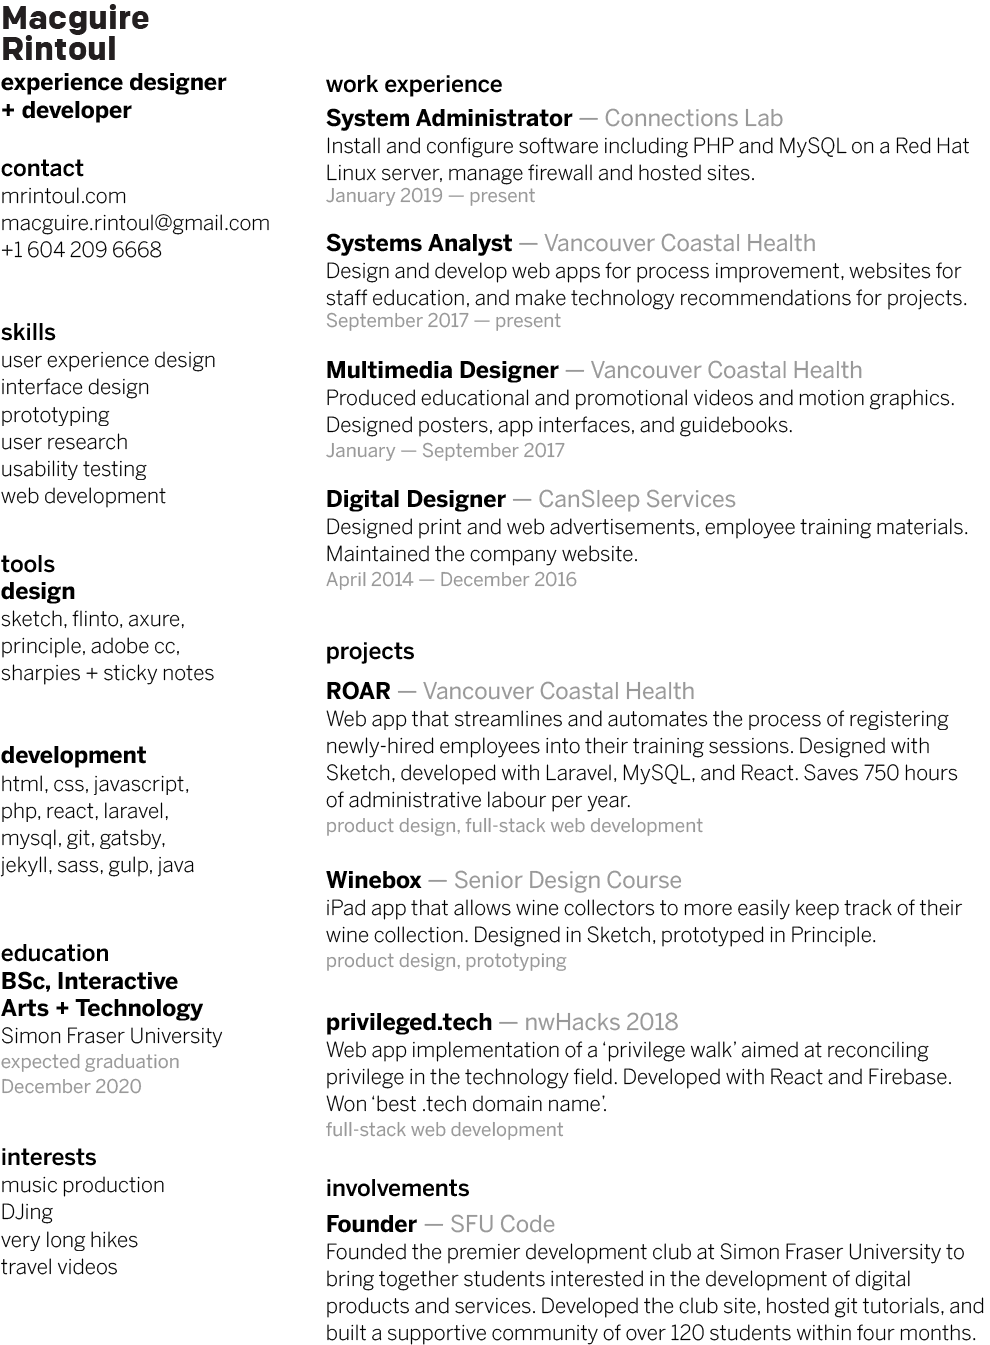
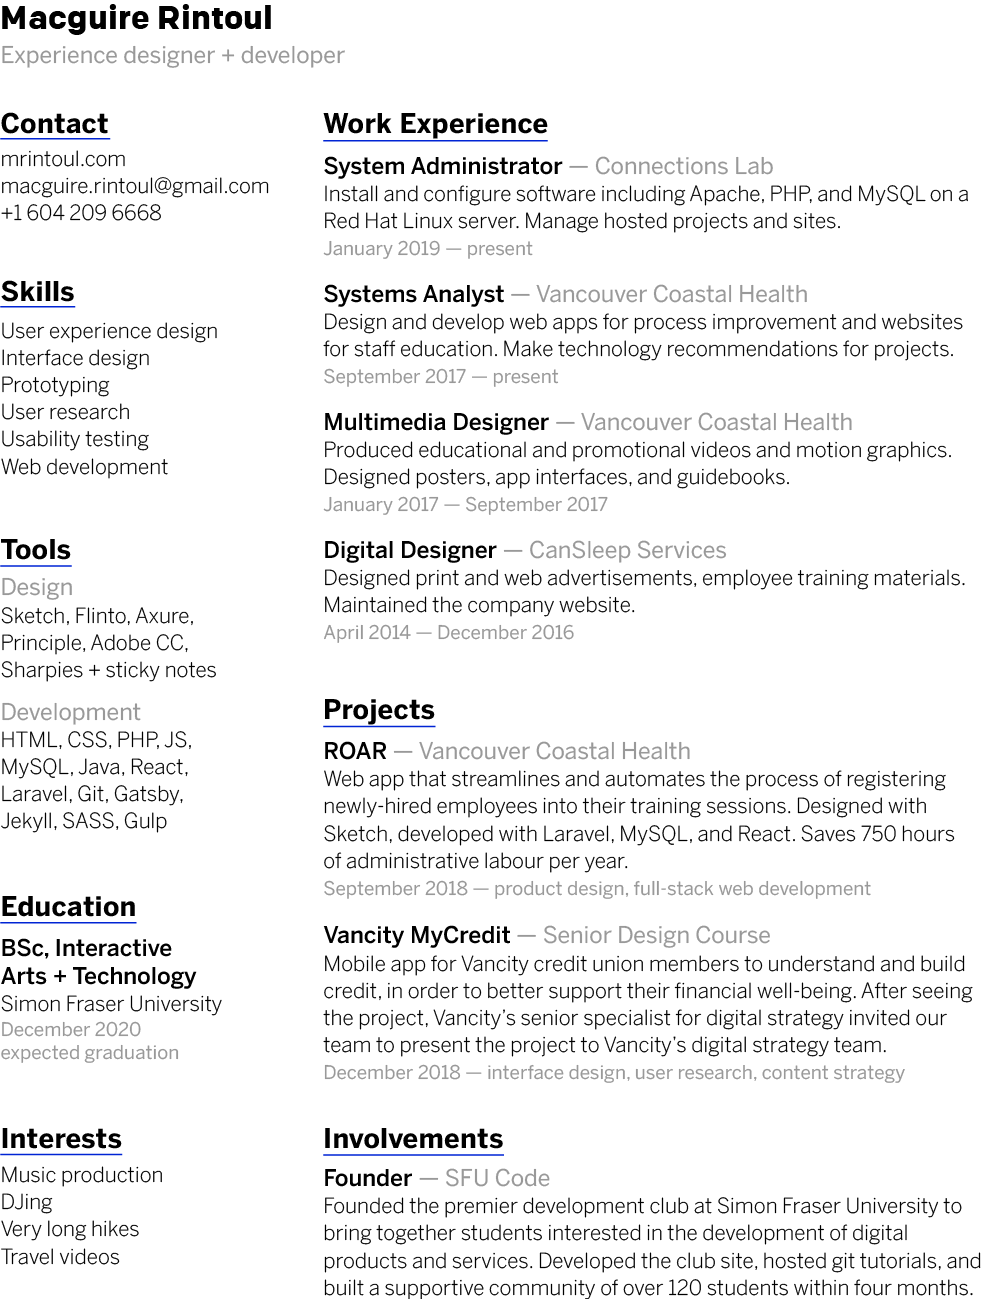
add new resume and disable offline in gatsby config

diff --git a/gatsby-config.js b/gatsby-config.js
@@ -32,6 +32,6 @@ module.exports = {
         icon: 'src/images/thumbnail-roar.jpg', // This path is relative to the root of the site.
       },
     },
-    'gatsby-plugin-offline',
+    // 'gatsby-plugin-offline',
   ],
 }
